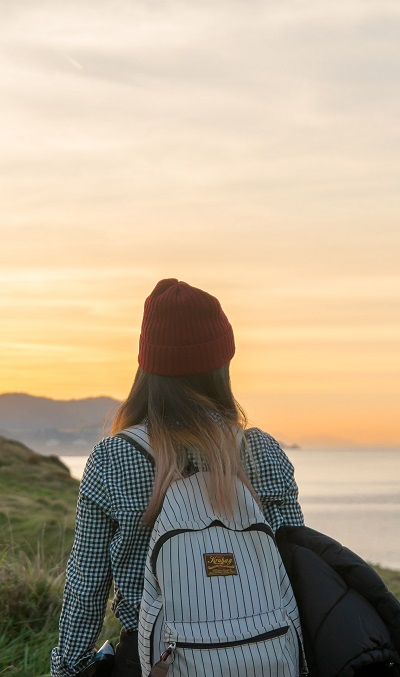
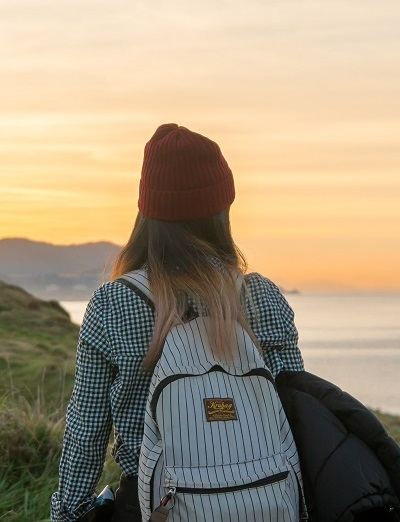
para chequear funcionamiento

diff --git a/styles/css/styles.css b/styles/css/styles.css
@@ -25,7 +25,7 @@
 /*SAAS IF*/
 .redondeado {
   border-radius: 4px;
-  box-shadow: 2px 2px 2px 0px rgba(0, 0, 0, 0.75); }
+  box-shadow: 3px 3px 4px 0px rgba(0, 0, 0, 0.75); }
 
 .carousel-control-prev-icon {
   background-image: url(../assets/images/iconos-y-logos/icons8-chevron-left-96.png); }
@@ -94,6 +94,12 @@
 .carroDesktop {
   display: none; }
 
+.active {
+  font-weight: 700; }
+
+a:hover {
+  background-color: rgba(202, 202, 202, 0.2); }
+
 /*FOOTER*/
 .footer {
   display: grid;
@@ -148,6 +154,9 @@
 
 /*SAAS EACH DE UN MAP*/
 .portadaMobile {
+  grid-area: portada; }
+
+.portada375 {
   grid-area: portada; }
 
 .portadaTablet {
@@ -229,7 +238,7 @@
   display: flex;
   width: 100%; }
 
-.portadaTablet, .portadaDesktop {
+.portadaTablet, .portada375, .portadaDesktop {
   display: none;
   width: 100%; }
 
@@ -421,10 +430,11 @@ h2, p {
   display: grid;
   width: 100%;
   border: 1px solid black;
-  border-radius: 3px;
+  border-radius: 4px;
   text-decoration: none;
   color: black;
   margin: auto;
+  box-shadow: 1px 0px 4px 0px black;
   grid-template-columns: 1fr;
   grid-template-rows: 228px 40px 40px;
   /*SAAS USO DE &*/ }
@@ -720,7 +730,24 @@ h2, p {
   grid-area: textoContactUs4; }
 
 /*-------------------------------------------------------------------MEDIA QUERIES-----------------------------------------------------------*/
+@media screen and (max-width: 300px) {
+  /*PORTADA HOME*/
+  .logoycarro {
+    display: grid;
+    grid-template-columns: 1fr 37px;
+    grid-template-areas: "none carro";
+    width: calc(50%);
+    padding: 0px;
+    margin: 0px; }
+  .logo {
+    display: none; } }
+
 @media screen and (min-width: 375px) {
+  /*PORTADA HOME*/
+  .portadaMobile {
+    display: none; }
+  .portada375 {
+    display: flex; }
   /*MEDIA QUERY 1 NEW ARRIVALS Y COLLECTIONS*/
   .contenedorCards {
     grid-template-columns: 160px 160px;
@@ -750,7 +777,7 @@ h2, p {
     padding: 0;
     gap: 10px;
     grid-template-areas: "portada portada portada portada" "paddingleft titulocolecciones titulocolecciones paddingright" "paddingleft imagencoleccion1 imagencoleccion1 paddingright" "paddingleft titulocoleccion1 titulocoleccion1 paddingright" "paddingleft imagencoleccion2 imagencoleccion2 paddingright" "paddingleft titulocoleccion2 titulocoleccion2 paddingright" "paddingleft imagencoleccion3 imagencoleccion3 paddingright" "paddingleft titulocoleccion3 titulocoleccion3 paddingright" "paddingleft vacio1 vacio1 paddingright" "paddingleft tituloNosotrosPortada tituloNosotrosPortada paddingright" "paddingleft parrafoNosotros1 parrafoNosotros1 paddingright" "paddingleft vacio2 vacio2 paddingright" "paddingleft parrafoNosotros2 parrafoNosotros2 paddingright" "paddingleft vacio3 vacio3 paddingright" "paddingleft ourCommunity ourCommunity paddingright" "paddingleft fotosuso1 fotosuso2 paddingright" "paddingleft fotosuso3 fotosuso4 paddingright" "paddingleft vacio5 vacio5 paddingright" "paddingleft imagenFundacion textoFundacion1 paddingright" "paddingleft imagenFundacion textoFundacion2 paddingright" "paddingleft vacio4 vacio4 paddingright"; }
-  .portadaMobile, .sliderFotosdeUso {
+  .portadaMobile, .portada375, .sliderFotosdeUso {
     display: none; }
   .portadaDesktop {
     display: flex; }

diff --git a/styles/sass/utilities/_media-queries.scss b/styles/sass/utilities/_media-queries.scss
@@ -1,5 +1,31 @@
 /*-------------------------------------------------------------------MEDIA QUERIES-----------------------------------------------------------*/
+    @media screen and (max-width: 300px){
+    
+    /*PORTADA HOME*/
+    .logoycarro{
+        display: grid;
+        grid-template-columns: 1fr 37px;
+        grid-template-areas: "none carro";
+        width: calc(50%);
+        padding: 0px;
+        margin:0px;
+    }
+
+    .logo {
+        display: none;
+    }   
+    }
+    
     @media screen and (min-width: 375px){
+    
+    /*PORTADA HOME*/
+    .portadaMobile {
+        display: none;
+    }
+
+    .portada375{
+        display:flex
+    }
      /*MEDIA QUERY 1 NEW ARRIVALS Y COLLECTIONS*/
      .contenedorCards {
         grid-template-columns: $templateColumnsColeccionesyNovedades375px;
@@ -42,7 +68,7 @@
         grid-template-areas: $templateAreaHome768px;
     }
     
-    .portadaMobile, .sliderFotosdeUso {
+    .portadaMobile, .portada375, .sliderFotosdeUso {
         display: none;
     }
     

diff --git a/index.html b/index.html
@@ -61,6 +61,7 @@
     <main class="contenedorMain">
         <!------SECCION PORTADA------>
         <img src="./assets/images/portadas/portada-mobile.jpg" alt="Imagen de una mujer mirando al mar con una mochila blanca con rayas negras de tamaño medio de nuestra marca. Es la portada de la pagina web" class="portadaMobile">
+        <img src="./assets/images/portadas/portada375.jpg" alt="Imagen de una mujer mirando al mar con una mochila blanca con rayas negras de tamaño medio de nuestra marca. Es la portada de la pagina web" class="portada375">
         <img src="./assets/images/portadas/portada-tablet.jpg" alt="Imagen de una mujer mirando al mar con una mochila blanca con rayas negras de tamaño medio de nuestra marca. Es la portada de la pagina web" class="portadaTablet">
         <img src="./assets/images/portadas/portada-desktop.jpg" alt="Imagen de una mujer mirando al mar con una mochila blanca con rayas negras de tamaño medio de nuestra marca. Es la portada de la pagina web" class="portadaDesktop">
         

diff --git a/styles/sass/utilities/_main-section.scss b/styles/sass/utilities/_main-section.scss
@@ -25,7 +25,7 @@
     width: 100%;
 }
 
-.portadaTablet, .portadaDesktop {
+.portadaTablet, .portada375, .portadaDesktop {
     display:none;
     width: 100%;   
 }
@@ -221,10 +221,11 @@ h2, p{
     display: grid;
     width:100%;
     border: 1px solid black;
-    border-radius: 3px;  
+    border-radius: 4px;  
     text-decoration: none;
     color: black;
     margin:auto;  
+    box-shadow: 1px 0px 4px 0px black;
     grid-template-columns: $templateColumnsCardcoleccionyNovedadesMobile;
     grid-template-rows: $templateRowsCardcoleccionyNovedadesMobile;
     

diff --git a/styles/sass/utilities/_globals.scss b/styles/sass/utilities/_globals.scss
@@ -11,7 +11,7 @@
 @if $elementosRedondeados == true {
 .redondeado{
     border-radius: 4px;
-    box-shadow: 2px 2px 2px 0px rgba(0,0,0,0.75);
+    box-shadow: 3px 3px 4px 0px rgba(0,0,0,0.75);
 }
 }
 

diff --git a/styles/sass/utilities/_variables.scss b/styles/sass/utilities/_variables.scss
@@ -1,5 +1,6 @@
 $elementosHomeMobile: (
 "portadaMobile":"portada", 
+"portada375":"portada", 
 "portadaTablet":"portada", 
 "portadaDesktop":"portada",
 "titulocolecciones":"titulocolecciones",

diff --git a/styles/sass/utilities/_header.scss b/styles/sass/utilities/_header.scss
@@ -68,3 +68,11 @@
 .carroDesktop{
     display:none;
 }
+
+.active{
+    font-weight: 700;
+}
+
+a:hover{
+    background-color: rgba(202, 202, 202, 0.2);
+}
